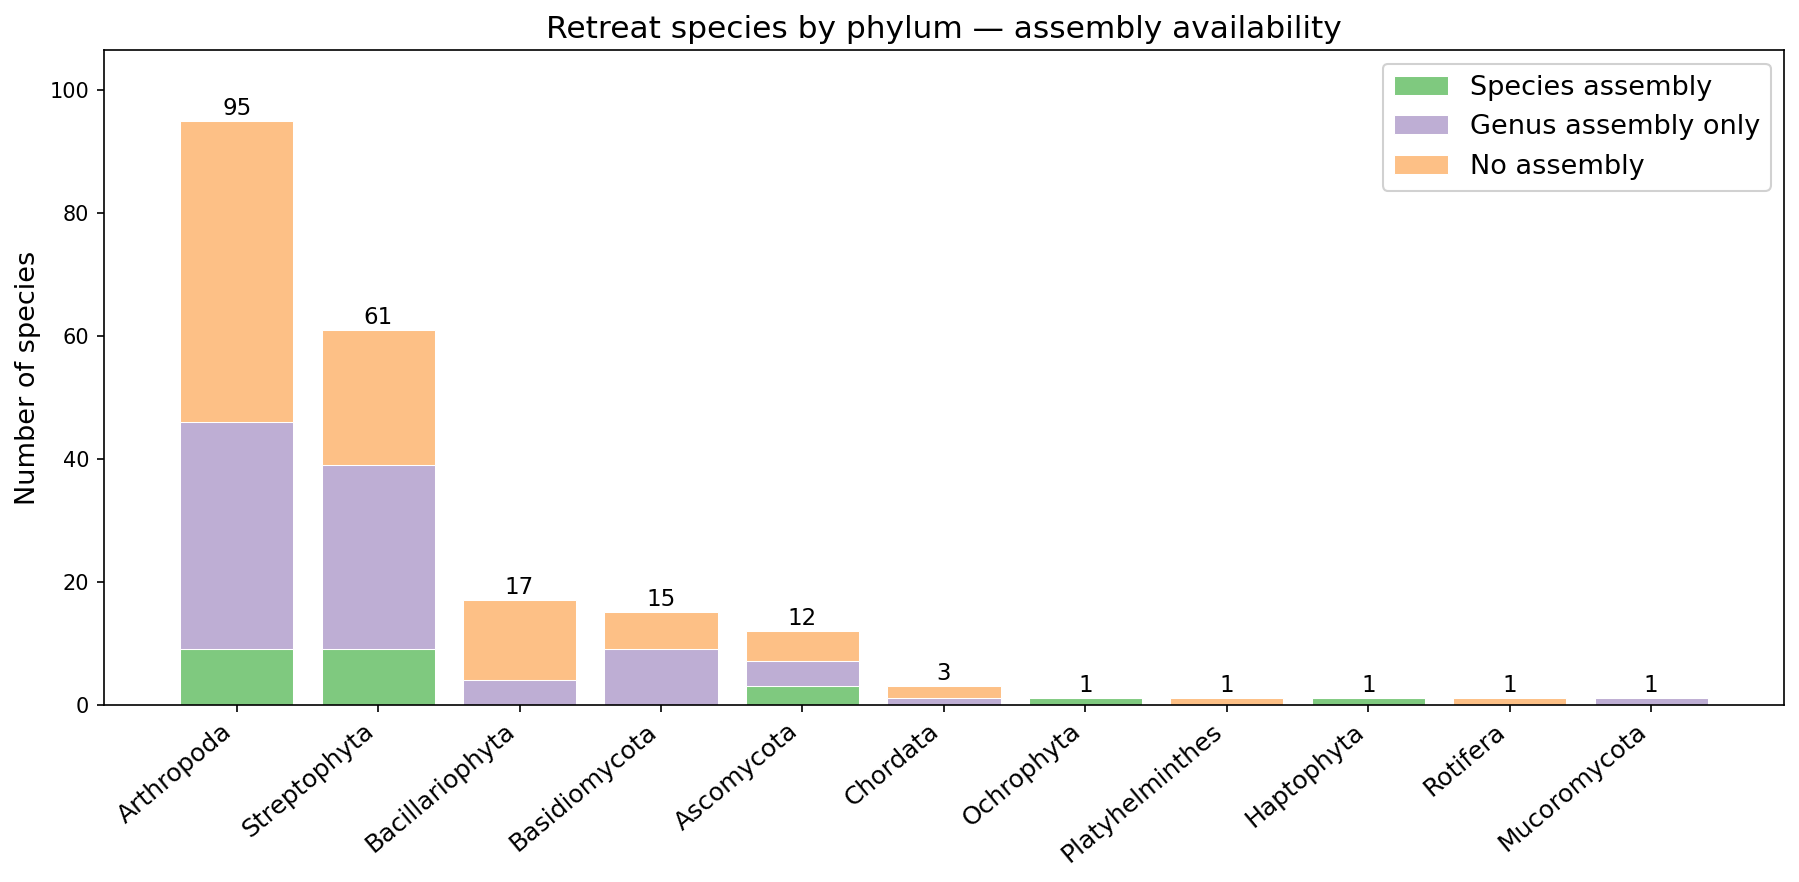
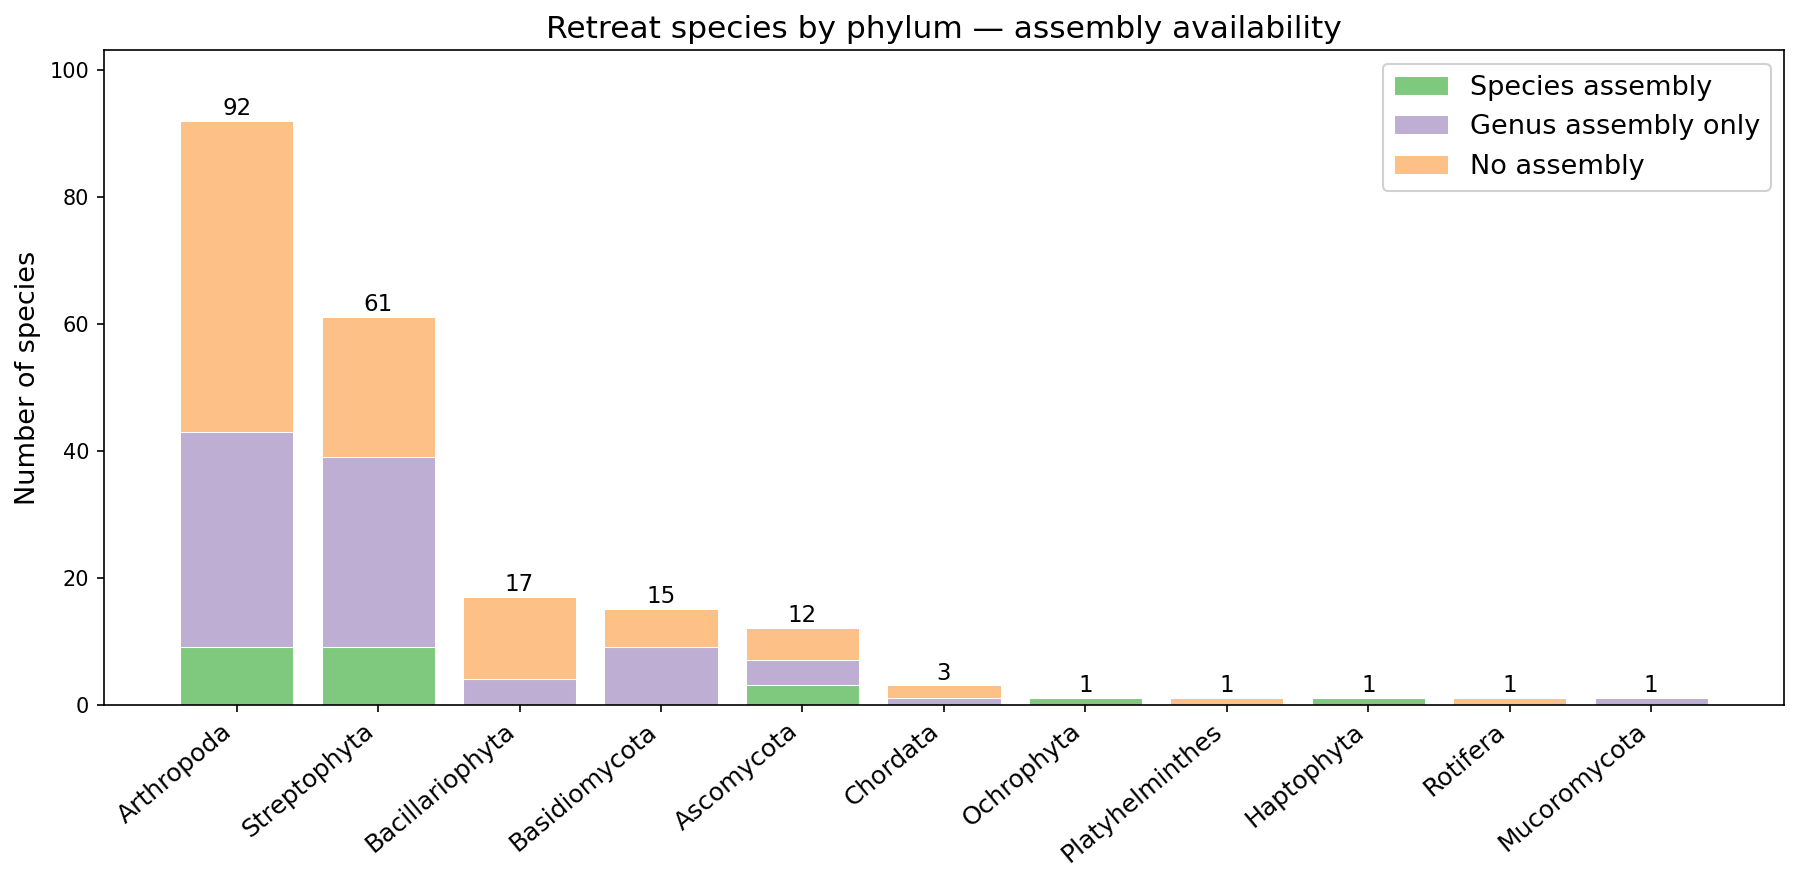
commit

diff --git a/scripts/taxonomy_availability_plot.py b/scripts/taxonomy_availability_plot.py
@@ -194,6 +194,9 @@ def main():
                          'Try "class" for finer splits within Arthropoda/Tracheophyta.')
     ap.add_argument('--cache',  default='data/taxonomy_cache.tsv',
                     help='TSV cache for NCBI taxonomy lookups')
+    ap.add_argument('--out-tsv', default=None,
+                    help='Path to write summary TSV '
+                         '(default: data/assembly_availability_by_<rank>.tsv)')
     args = ap.parse_args()
 
     Entrez.email = args.email
@@ -241,6 +244,28 @@ def main():
 
     out_path = os.path.join(args.out, f'taxonomy_availability_{args.rank}.png')
     make_plot(counts, groups, args.rank, out_path)
+
+    # write summary TSV
+    tsv_path = args.out_tsv or f'data/assembly_availability_by_{args.rank}.tsv'
+    with open(tsv_path, 'w', newline='') as f:
+        writer = csv.writer(f, delimiter='\t')
+        writer.writerow([args.rank, 'total',
+                         'species_level', 'species_pct',
+                         'genus_only',    'genus_pct',
+                         'no_assembly',   'no_assembly_pct'])
+        for g in groups:
+            c     = counts[g]
+            total = sum(c.values())
+            s     = c[AVAIL_SPECIES]
+            gn    = c[AVAIL_GENUS]
+            n     = c[AVAIL_NONE]
+            writer.writerow([
+                g, total,
+                s,  round(s  / total * 100, 1),
+                gn, round(gn / total * 100, 1),
+                n,  round(n  / total * 100, 1),
+            ])
+    print(f'Saved: {tsv_path}')
 
 
 if __name__ == '__main__':

diff --git a/docs/pipeline_overview.md b/docs/pipeline_overview.md
@@ -4,7 +4,7 @@ This document contains step-by-step computational workflow used in this project,
 
 **Taxa List Synthesis**
 
-List of taxa that may respond to glacial retreat is synthesized from past literature (see `taxids.txt`). Taxonomic ID at species level are extracted from NCBI.  
+List of taxa that may respond to glacial retreat is synthesized from past literature (see `species_id.txt`). Taxonomic ID at species level are extracted from NCBI.  
 
 **Genome Assemblies Acquisition**
 
@@ -196,13 +196,15 @@ The shrunk LCA files are then further filtered using `bamdam_filter.py`, which p
 
 **Database Coverage Check**
 
-To ensure a fair comparison between the competitive mapping (ngsLCA) and Kraken2 pipelines, only species represented in both databases are used. If a species is absent from one database, reads from that species cannot be classified regardless of probe quality, introducing bias in the comparison. This is done using `check_db_coverage.py`, which first checks for the list of representative species taxid by referring to `all_availability.tsv` and `genus_metadata.tsv`: 
+As the presence or absence of targeted or representative species assmebly in the database may affect the performance of both pipelines, to assess their corresponding performance under different level of database coverage, species that have any genetic assembly in the database is identified. This is done using `check_db_coverage.py`, which first checks for the list of representative species taxid by referring to `all_availability.tsv` and `genus_metadata.tsv`: 
 ```
 python3 check_db_coverage.py \
   --all_avail data/all_availability.tsv \
   --genus_meta data/genus_metadata.tsv \
   --out_dir data/
 ```
+It is important to point out that this only checks for the presence of any genetic assembly of these targeted or representative species, as search for the exact assembly used for tiling have been done and revealed that no species have their exact assembly accession representation in the database.  
+
 Outputs `organism_taxid_mapping.tsv` and `organism_taxids_to_check.txt` are then compared to ngsLCA and Kraken2 accession-taxid metadata: 
 ```
 awk 'NR==FNR{t[$1]=1;next} $3 in t {print $3}' \
@@ -224,9 +226,9 @@ python3 check_db_coverage.py \
 ```
 Outputs `db_coverage.tsv` with per-species database presence flags, and `species_in_both_dbs.txt` listing target taxids found in both databases. Only species in `species_in_both_dbs.txt` are used for downstream pipeline comparison.  
 
-**Extending the Competitive Mapping Pipeline with New Assemblies**
+**Extending the Local Alignment Pipeline with New Assemblies**
 
-A key advantage of the competitive mapping pipeline over the Kraken2 approach is its ability to incorporate new assemblies without rebuilding the full database: while Kraken2's k-mer index must be reconstructed from scratch whenever new sequences are added, new assemblies can be appended to the core_nt database and indexed as additional bowtie2 shards, allowing reads to be mapped against the extended database incrementally. The competitive mapping database is thus extended to include the assemblies of target species and representative speices that were absent from the original core_nt database.  
+A key advantage of the local alignment pipeline over the k-mer based pipeline is its modularity. While Kraken2's k-mer index must be reconstructed from scratch whenever new sequences are added, with local alignment pipeline, new assemblies can be appended to the core_nt database and indexed as additional bowtie2 shards, allowing reads to be mapped against the extended database incrementally. The local alignment database is thus extended to include the assemblies of target species and representative speices that were absent from the original core_nt database.  
 
 New assemblies are added to core_nt as shards 78, 79, and 80. The bowtie2 index for these new shards is built using `bowtie2_index_shard78.sbatch`. Reads are then aligned against these shards using `bowtie2_run_shard78.sbatch`. The compressed shard BAMs are then merged, queryname-sorted, and split into chunks with the alignments of previously existed shards. The resulting chunk BAMs feed into the same ngsLCA → bamdam → bamdam_filter pipeline, with the taxonomy files updated to include the new assemblies using `make_seqid2taxid_shard78.py`. This is done using corresponding `_compressed` variants of each script (`ngslca_compressed.sbatch`, `bamdam_compressed.sbatch`, `bamdam_filter_compressed.py`).  
 
@@ -241,7 +243,7 @@ python3 aeDNA_simulation.py \
 
 **Biophysical Filter**
 
-To prepare eprobe input, the overlap of reads correctly assigned at genus level by both Kraken2 and the competitive mapping pipeline is computed for each species, then extracted from the undamaged modern tiled FASTAs using `eprobe_input_extract.py`. The script accepts the following arguments:
+To prepare eprobe input, the overlap of reads correctly assigned at genus level by both k-mer and the local alignment pipeline is computed for each species, then extracted from the undamaged modern tiled FASTAs using `eprobe_input_extract.py`. The script accepts the following arguments:
 * `--species_id`: species taxid to process
 * `--kraken_filt_dir`: directory containing Kraken2 `correct_genus.out` files
 * `--bamdam_filt_dir`: directory containing bamdam `correct_genus.lca` files
@@ -274,13 +276,13 @@ Filter results per species are summarized using `eprobe_summary.py`, which count
 Output is shown in `eprobe_summary.csv`.   
 
 
-**Shuffle and Deduplication**
+**Shuffle, Subsampling and Deduplication**
 
 Before deduplication, each species' eprobe-filtered output is subsampled according to a pre-computed plan in `subsample_plan.csv` using `subsample_for_cdhit.py`. `subsample_plan.csv` contains three columns per species: `species_id`, `eprobe_passed`, and `ratio` (eprobe_passed / 625). The target number of reads is fixed at 625 for all species. The script compares each species' ratio against a set threshold; species with ratio above the threshold are subsampled down to 625 × threshold reads, while species at or below the threshold retain all available reads. The script accepts the following arguments:
 * `--plan`: subsample plan CSV
 * `--filtered_dir`: eprobe_filtered directory
 * `--out_dir`: output directory for subsampled FASTAs
-* `--threshold`: ratio threshold above which subsampling is applied, default 5.0
+* `--threshold`: ratio threshold above which subsampling is applied, default 5.0; 4.0 is used for this project
 * `--seed`: random seed for reproducibility (optional)
 Output FASTAs are written to `deduplicate_input/` as `{species_id}.fasta`.  
 
@@ -318,10 +320,10 @@ This is ran via `primary_secondary_lowsignal.sbatch` for 20 low-signal simulated
 
 Read counts at each pipeline stage per species are acquired using `count_stats.py` and `count_stats_compressed.py`. These scripts collect counts across the tiled reads, ngsLCA output, bamdam output, bamdam correct_genus, Kraken2 total, Kraken2 genus level, Kraken2 correct_genus, and eprobe input overlap columns. `count_stats_compressed.py` handles chunk-based outputs from the compressed pipeline by summing across chunk files. Output can be seen at `pipeline_stats.csv` and `pipeline_stats_compressed.csv` respectively.  
 
-Pipeline results for the 7 species found in both databases are visualized using `pipeline_visualize.py` and `pipeline_visualize_compressed.py`. Both scripts produce three figures comparing the Kraken2 and competitive mapping pipelines for simulated aeDNA-damaged and modern reads side by side:
-1. `kraken_summary.png`: grouped bar chart of read counts at each Kraken2 stage per species
-2. `competitive_summary.png`: grouped bar chart of read counts at each competitive mapping stage per species
-3. `intersection.png`: stacked bar chart of correct-genus read overlap between Kraken2 and competitive mapping per species
+Pipeline results for the 7 species found in both databases are visualized using `pipeline_visualize.py` and `pipeline_visualize_compressed.py`. Both scripts produce three figures comparing the k-mer based and local alignment based pipelines for simulated aeDNA-damaged and modern reads side by side:
+1. `kraken_summary.png`: grouped bar chart of read counts at each k-mer stage per species
+2. `competitive_summary.png`: grouped bar chart of read counts at each local alignment stage per species
+3. `intersection.png`: stacked bar chart of correct-genus read overlap between k-mer and local alignment per species
 A `summary_table.csv` is also written with all counts and overlaps for reference. `pipeline_visualize_compressed.py` uses the compressed pipeline outputs.  
 
 Read count comparisons across pipeline stages for the 7 species are produced by `pipeline_compare.py` and `pipeline_compare_compressed.py`, outputting one row per (species, mode) combination to `pipeline_comparison.csv`. All directory arguments are optional, with missing files reported as empty cells.  
@@ -338,7 +340,7 @@ Output figure can be seen at `taxonomy_availability_{rank}.png`.
 * `--summary`: path to `eprobe_summary.csv`
 * `--plan`: path to `subsample_plan.csv`
 * `--post_dedup`: read count after CD-HIT deduplication (integer)
-* `--threshold`: subsample ratio threshold used, default 5.0
+* `--threshold`: subsample ratio threshold used, default 5.0; 4.0 is used for this project
 * `--out`: output figure path, default `figures/probe_funnel.png`
 Output figure can be seen at `probe_funnel.png`.  
 
@@ -359,5 +361,17 @@ Output figures can be seen at `pooled_dedup_piechart.png` and `species_piechart.
 * `--email`: email for NCBI Entrez, required only if taxids are missing from cache
 * `--rank`: taxonomic rank for grouping and colouring, default phylum
 * `--out`: output figure path, default `figures/probe_count_lollipop.png`
-Output figure can be seen at `probe_count_lollipop.png`.  
+Output figure can be seen at `probe_count_lollipop.png`.
+
+`pooled_dedup_counts.py` counts the number of probes per species in the `pooled_dedup` FASTA, attaches species names and phylum from the taxonomy cache, and outputs a sorted TSV table. It accepts the following arguments:
+* `--pooled_dedup`: path to the `pooled_dedup` FASTA from CD-HIT
+* `--names`: path to NCBI `names.dmp` for species name lookup
+* `--cache`: TSV taxonomy cache file, default `data/taxonomy_cache.tsv`
+* `--out`: output TSV path, default `data/pooled_dedup_counts.tsv`
+Output is written to `pooled_dedup_counts.tsv` and also printed to stdout.
+
+`correct_rate_correlation.py` produces a scatter plot comparing the local alignment correct rate against the k-mer correct rate per species. It accepts the following arguments:
+* `--input`: path to `pipeline_stats_compressed.csv`, default `data/pipeline_stats_compressed.csv`
+* `--out`: output figure path, default `figures/correct_rate_correlation_compressed.png`
+Output figure can be seen at `correct_rate_correlation_compressed.png`.  
 
